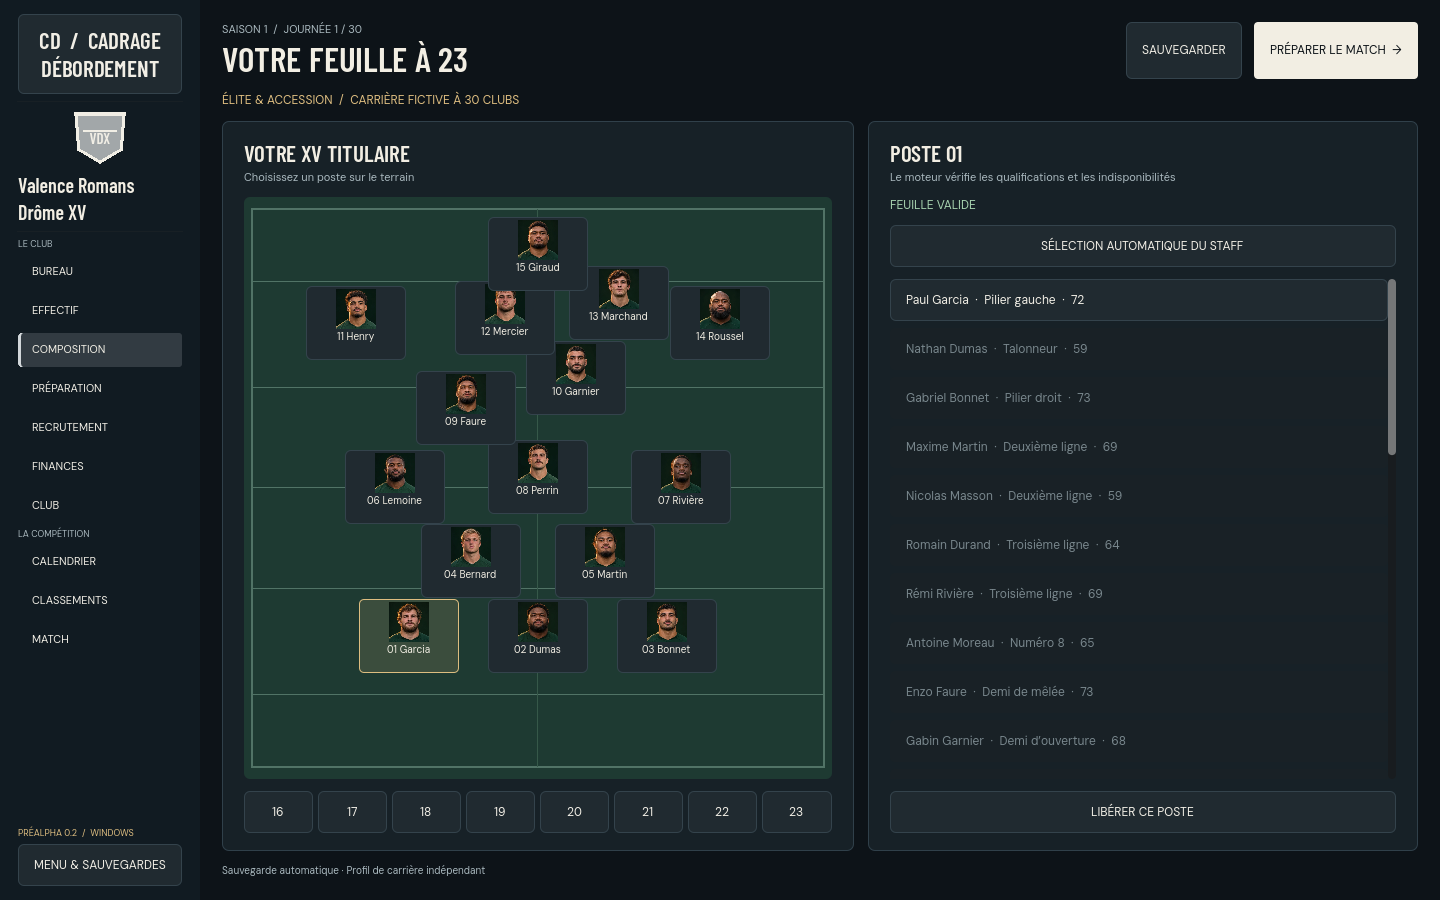
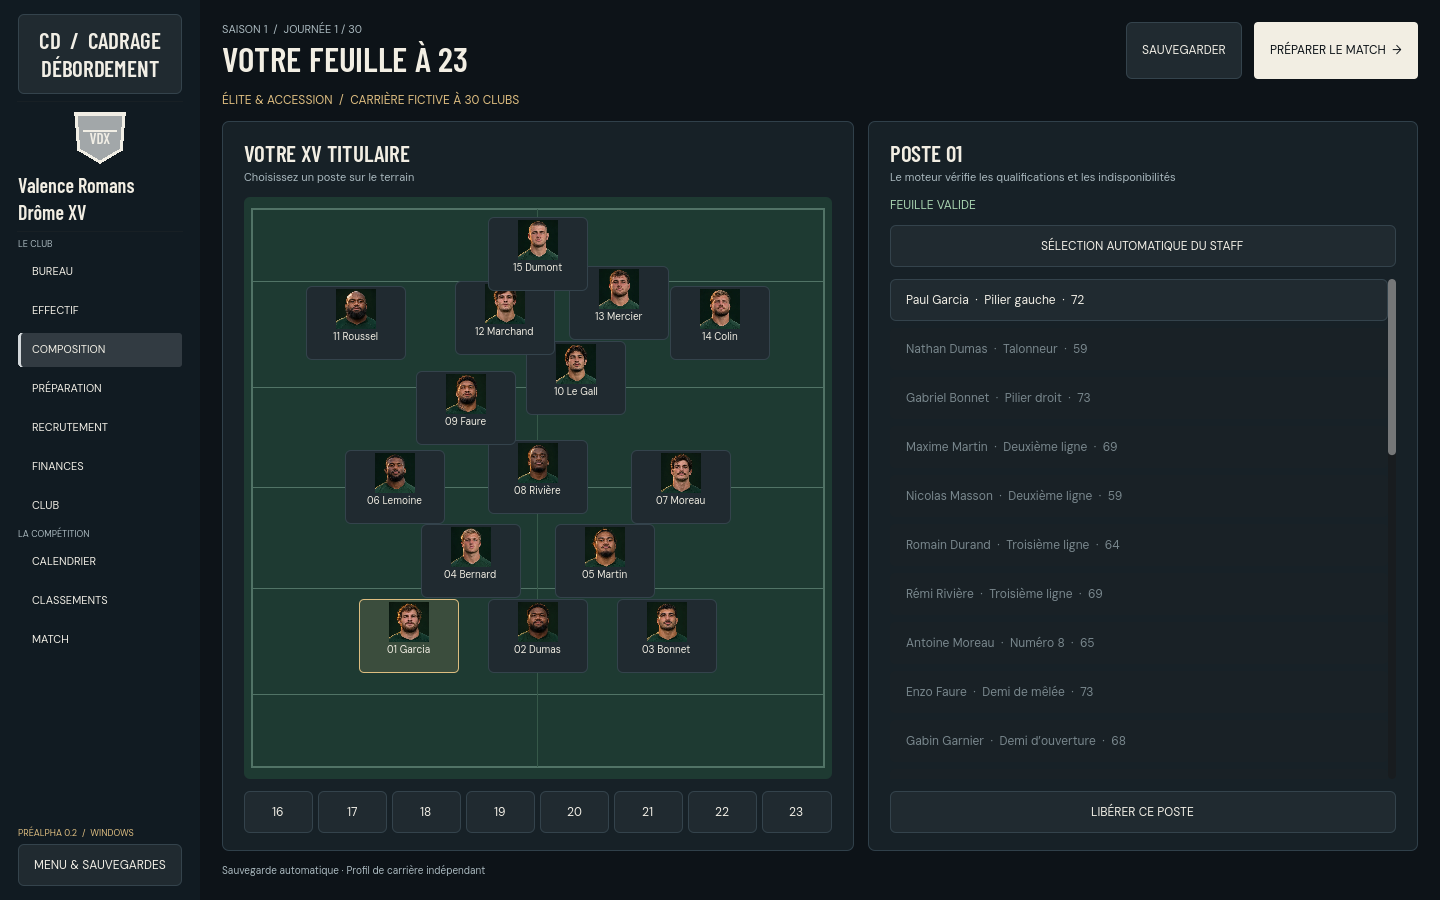
Actualise la reception du ZIP apres la revue globale native

diff --git a/docs/godot-carriere-20261107.md b/docs/godot-carriere-20261107.md
@@ -1,6 +1,6 @@
 # Godot 0.2 — carrière et direction artistique
 
-Réception du 7 novembre 2026. Version Windows native de développement, construite depuis le code `6b3f7e2e1cd37520d385c7c4151d5642dba840c8`, sur le main qualifié `712d0254ef738c1367fda486f8428d5a2569d1a8`. La documentation ajoutée ensuite ne change pas l'exécutable reçu. La qualification GitHub du dernier HEAD reste une preuve distincte, à consulter sur la PR ; aucun résultat CI futur n'est compté réussi ici.
+Réception du 7 novembre 2026. Version Windows native de développement, construite depuis le code `33a696caa0f34781e5c38f9107a011f1e59abbdb`, sur le main qualifié `712d0254ef738c1367fda486f8428d5a2569d1a8`. La documentation ajoutée ensuite ne change pas l'exécutable reçu. La qualification GitHub du dernier HEAD reste une preuve distincte, à consulter sur la PR ; aucun résultat CI futur n'est compté réussi ici.
 
 ## Ce qui devient jouable
 
@@ -25,21 +25,24 @@ Machine de réception : Windows, Godot 4.7.2 officiel, GL Compatibility/OpenGL 3
 | Campagne moteur de dix saisons, avec validation et export/import aux transitions | 4 330 rencontres ; sauvegarde maximale 2 649 706 octets UTF-8 / 216 372 nœuds ; plafonds France 400 000 nœuds / 5 Mio |
 | UI Windows depuis le projet, après correction des contrôleurs | 488 contrôles réussis ; saison 2, club 29, offre signée, deuxième match et réimport reçus |
 | Régressions finales du SDK sur la source intégrée | 219 contrôles, dix modes, aucun skip : disque, UI, limites, transport, récupération, décisions rapides, tactiques, banc, modales, focus |
+| Cas ajoutés par la revue globale | 8 tests Node et 90 contrôles graphiques Windows : postes vacants après exclusion, deux vacances distinctes, retrait sans déplacement, vraie mi-temps/reprise/prolongations et animations, terrains neutres |
 | Ancien profil14 issu du ZIP précédent | 16 contrôles graphiques Windows ; match en cours repris jusqu'à la journée suivante, sans conversion ; original conservé |
 | Même profil14 dans le moteur réellement embarqué | Indice `round` 1 → 2 et export réussis avec le Node du ZIP, PATH sans Node installé |
 | Stade natif isolé | 127 contrôles graphiques Windows ; six cadrages, présence 30 → 29 → 0, ballon, couleurs et modèle ; déterminisme séparé réussi |
 | Cycle de scène utilisé par l'UI | Trois reconstructions consécutives, anciens conteneurs libérés, nouvelles présences exactes et journaux propres |
-| Exécutable release extrait et déplacé | **500/500 contrôles réussis**, deux résolutions 1440×900 / 1920×1080, saison 2 / club 29, export et réimport |
+| Exécutable release extrait et déplacé | **494/494 contrôles réussis**, deux résolutions 1440×900 / 1920×1080, saison 2 / club 29, export et réimport |
 | Autonomie du ZIP déplacé | 62 fichiers du manifeste vérifiés ; jeu + Node embarqué observés, zéro orphelin, zéro connexion TCP observée |
 | Redémarrage du moteur embarqué sur le profil France reçu | Club29 / saison2 / modeFrance30 retrouvés ; simple snapshot sans changement du fichier sauvegardé |
 
 Les premiers essais ayant échoué ne sont pas comptés verts : sélection IA incomplète après blessure, conséquences D2 ou éliminatoires, commandes rapides, cache du banc et dimensions des dialogues ont été reproduits puis corrigés avant cette réception. Les imports hostiles, écritures refusées et décisions périmées conservent les garanties de rollback ; le profil corrompu est copié octet pour octet avant récupération explicite.
 
+La revue globale a également fait corriger les retraits successifs de composition, l'adressage des remplacements de postes vacants et les deux consommateurs du marqueur historique de mi-temps. Les tests déclenchent les exclusions par le contrôleur natif, sans les présenter comme des événements aléatoires observés. `slot` et `atBreak` sont des projections, pas de nouveaux champs de sauvegarde. La revue ciblée de cette vague est favorable ; le ZIP a été reconstruit et reçu à nouveau. Son compteur dépend des actions réellement nécessaires dans la carrière, notamment des promotions ; les 500 contrôles du paquet de base restent une preuve historique distincte.
+
 ## Archive et construction
 
-Archive reçue : `CadrageDebordement-PrototypeGodot-Windows-x64.zip`, **177 788 180 octets**.
+Archive reçue : `CadrageDebordement-PrototypeGodot-Windows-x64.zip`, **177 788 488 octets**.
 
[2 lines of base64/hex data omitted]
 
 Décompresser le dossier complet puis lancer `CadrageDebordement.exe`. Les carrières sont dans `%APPDATA%\CadrageDebordement\PrototypeGodot`, indépendamment de l'exécutable. Le menu conserve import/export et reprise ; aucun lancement ne crée une carrière automatiquement. L'ancien profil fictif14 reste indépendant d'une nouvelle France30. Les crédits et licences des photos, polices, modèle, Godot et Node accompagnent l'archive.
 
@@ -51,7 +54,7 @@ python scripts/build-godot-prototype.py --sdk CHEMIN_SDK_GODOT_WINDOWS_4.7.2 --n
 
 Le script ne télécharge rien et refuse une sortie existante. Il importe le projet, exporte le PCK dans le .exe, copie les 43 modules et contrôleurs requis, le Node embarqué et les licences, puis calcule le manifeste et l'archive. `--stage-only` prépare uniquement les ressources du projet.
 
-Les preuves locales sont conservées dans le dossier de travail `CD` : `godot-native-qa/godot-career-v2-final01/` pour le ZIP, `v2-final-native-regressions.log`, `v2-legacy14-ui03/`, `v2-stadium-reception/run01/` et les rapports de revue du chantier. Les captures ci-dessus proviennent de l'exécutable exact reçu, pas d'une maquette.
+Les preuves locales sont conservées dans le dossier de travail `CD` : `godot-native-qa/godot-career-v2-final02/` pour le ZIP, `v2-final-native-regressions.log`, `v2-legacy14-ui04/`, `v2-stadium-reception/run01/` et les rapports de revue du chantier. Les captures ci-dessus proviennent de l'exécutable exact reçu, pas d'une maquette.
 
 ## Choix et limites
 

diff --git a/DEVELOPPEMENT.md b/DEVELOPPEMENT.md
@@ -818,3 +818,9 @@ Dix saisons moteur rejouées après les correctifs :4330 rencontres, validations
 Export Windows autonome reçu depuis le code6b3f7e2e1cd37520d385c7c4151d5642dba840c8 : ZIP déplacé avec espace/accent, PATH sans Node installé,500/500 contrôles, saison2/club29/export/réimport, redémarrage du moteur embarqué sans altération par snapshot.62 fichiers du manifeste vérifiés ; jeu et runtimeNode observés, zéro connexionTCP observée, zéro orphelin. Archive177788180octets, SHA256 e11bcde4ff24c22b38aa966ae31b115cec7827e90e0fe624c338f406eaee44c5. Réception réelle Windows/OpenGL RTX4080 SUPER ; aucune certification des autres GPU ni publication Steam annoncée.
 
 Rapport illustré : docs/godot-carriere-20261107.md. Les données restent fictives, photos réelles d'archive créditées, monde fermé sansNationale/cadence34 déclarés. Format de compétition2026–2027 distinct des lois de match historiques partiellement couvertes ; drops, cartons de staff et forfaits administratifs incomplets. Revue indépendante des tâches moteur/UI/stade et correctifs favorable ; revue globale du dernier lot, publication vérifiée, CI exacte, gate et post-fusion restent à recevoir sur GitHub. La documentation de cette réception est incluse avant cette dernière CI ; les résultats distants ne sont pas présumés.
+
+### Revue globale et réception finale du correctif
+
+La revue globale du lot a reproduit trois cas supplémentaires : poste vacant non adressable après une exclusion remplaçable, retrait de composition déplaçant son joueur vers une autre place vide, marqueur historique de mi-temps utilisé comme pause active. Une vague unique les corrige, avec le gel associé des animations et le lieu neutre du Bureau. Les permissions natives restent seules autorités ; ni règle, ni état de sauvegarde ajouté. Le modèle expose slot/label et atBreak de manière additive, anciens payloads de substitution à ID non nul préservés. Revue ciblée favorable sur2bce6da, cherry parent33a696caa0f34781e5c38f9107a011f1e59abbdb.8testsNode,90contrôlesGodotWindows,219régressions, gestion/sauvegardes réussis ; les états d'exclusion sont provoqués par le contrôleur natif et les vues neutres sont des entrées de test déclarées.
+
+Le paquet précédent e11bcde4/500 reste uniquement son reçu historique. Nouveau ZIP reconstruit sur33a696c puis extrait et déplacé :494/494contrôles Windows, même parcours saison2/club29/export/réimport/redémarrage,62empreintes vérifiées, zéro connexionTCP observée et zéro orphelin.177788488octets, SHA256 cef95067baf04743907e10f4ca8bdd985ea510f22def2b0644abc3d29f36e241. Le nombre de contrôles varie avec les promotions réellement nécessaires ; aucune assertion n'a été supprimée. Ancienne fiction14 reprise à nouveau sur ce code :16/16UIWindows, puis même profil via Node embarqué ; sourceV1 toujours inchangée. Captures et rapport public actualisés depuis ce nouvel exécutable. Les seules modifications suivantes sont documentaires ; CI exacte/branche/PR/gate/post-fusion restent à recevoir sans les présumer.

diff --git a/docs/superpowers/specs/2026-11-07-godot-career-design.md b/docs/superpowers/specs/2026-11-07-godot-career-design.md
@@ -38,6 +38,8 @@ Création `new_career:{club:0..29,mode:'france'}` ; ancien mode fiction14 reste 
 
 ### Décisions du bâtisseur après contrôle
 
+La réception finale précise deux champs de présentation sans changer les sauvegardes : `live.atBreak` reprend la pause de mi-temps native, distincte du marqueur historique `halftime` ; chaque permission de remplacement porte `slot`, `label`, `outId` et `inIds`. La commande `substitute:{slot:0..14,inId,outId?}` adresse aussi un poste vacant. L'ancien payload avec un `outId` non nul encore présent reste accepté ; `outId:null` sans poste est refusé. L'occupant fourni et l'éligibilité native sont revalidés au moment d'appliquer la décision. Cela évite de confondre plusieurs places vides et ne modifie aucune règle d'exclusion.
+
 La revue de conception n'a identifié aucune question nécessitant de solliciter Léo. Je retiens : salaire explicite et confirmation de l'offre ; pas de choix de capitaine/buteur sans effet ; systèmes métier annoncés limités aux modules effectivement chargés par le manifeste natif. Le plan France web conserve sa valeur d'audit, mais n'impose pas de charger les modules Espoirs/supporters tardifs pour ce lot natif.
 
 Un profil corrompu doit laisser le menu stable et une explication, avec reprise explicite après réparation ou conservation d'une copie avant remplacement/import. La commande de récupération exige une confirmation utilisateur dans le jeu ; aucune carrière n'est créée ou écrasée automatiquement après refus de chargement. Cette reprise doit préserver les octets du profil endommagé. Le canal reste utilisable ou redémarre explicitement dans le même profil ; aucun changement silencieux de stockage.
